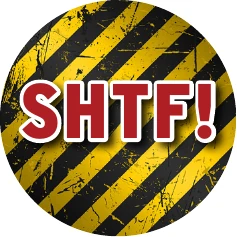
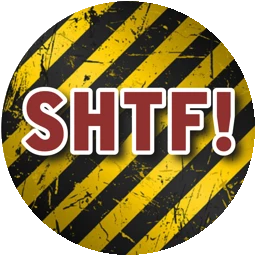
v1.20: SHTF token artwork on the DEFCON marker
Claude-Session: https://claude.ai/code/session_019xH1rrSMyvmZdTk1mqi99f

diff --git a/src/view3d.js b/src/view3d.js
@@ -208,7 +208,7 @@ export class View3D {
     this.chart = { w: 0.1, d: 0.1 * 866 / 400, x: -(W + 0.03 + 0.05), z: -hb + 0.1 * 866 / 400 / 2 };
     const c = this.flat(this.chart.w, this.chart.d, 'assets/ui/countdown.jpg', this.chart.x, 0.0018, this.chart.z); this.furniture.add(c);
     const edge = new THREE.Mesh(new THREE.BoxGeometry(this.chart.w + 0.004, 0.0012, this.chart.d + 0.004), new THREE.MeshStandardMaterial({ color: 0x111111 })); edge.position.set(this.chart.x, 0.0004, this.chart.z); edge.receiveShadow = true; this.furniture.add(edge);
-    this.defMark = new THREE.Mesh(new THREE.CylinderGeometry(0.009, 0.009, 0.004, 28), new THREE.MeshStandardMaterial({ color: 0xffffff, emissive: 0x555555, roughness: 0.3 })); this.defMark.castShadow = true; this.furniture.add(this.defMark);
+    const sideM = new THREE.MeshStandardMaterial({ color: 0x222222, roughness: 0.5 }), topM = new THREE.MeshStandardMaterial({ map: this.tex('assets/counters/shtf.webp'), transparent: true, roughness: 0.4 }); this.defMark = new THREE.Mesh(new THREE.CylinderGeometry(0.0095, 0.0095, 0.004, 40), [sideM, topM, sideM]); this.defMark.rotation.y = Math.PI / 2; this.defMark.castShadow = true; this.furniture.add(this.defMark);
     const lb = this.label('DEFCON', '#ffd54f'); lb.position.set(this.chart.x, 0.03, this.chart.z + this.chart.d / 2 + 0.02); this.furniture.add(lb);
     this.newsPos = { deck: [W + 0.03 + 0.052, -hb + 0.0735], ai: [W + 0.03 + 0.052 + 0.115, -hb + 0.0735], pandemic: [W + 0.03 + 0.052, -hb + 0.0735 + 0.17], nuclear: [W + 0.03 + 0.052 + 0.115, -hb + 0.0735 + 0.17] };
   }
@@ -216,7 +216,7 @@ export class View3D {
   syncTable(s) {
     const df = s.defcon, ys = [590, 440, 270, 78];   // pixel rows of the four DEFCON lights on the chart image (400x866)
     const fx = this.chart.x - this.chart.w / 2 + this.chart.w * (330 / 400), fz = this.chart.z - this.chart.d / 2 + this.chart.d * (ys[Math.min(3, df)] / 866);
-    this.defMark.position.set(fx + 0.0, 0.004, fz + 0.0); this.defMark.scale.set(1.9, 1, 1.9); this.defMark.material.opacity = 1;
+    this.defMark.position.set(fx + 0.0, 0.004, fz + 0.0); this.defMark.scale.set(1.9, 1, 1.9); 
     // news piles
     const deckN = Array.isArray(s.newsDeck) ? s.newsDeck.length : s.newsDeck;
     const psig = JSON.stringify([deckN, s.stand]);

diff --git a/src/version.js b/src/version.js
@@ -1,2 +1,2 @@
 // Bump this on every change; shown next to the APOC title.
-export const VERSION = 'v1.19';
+export const VERSION = 'v1.20';
